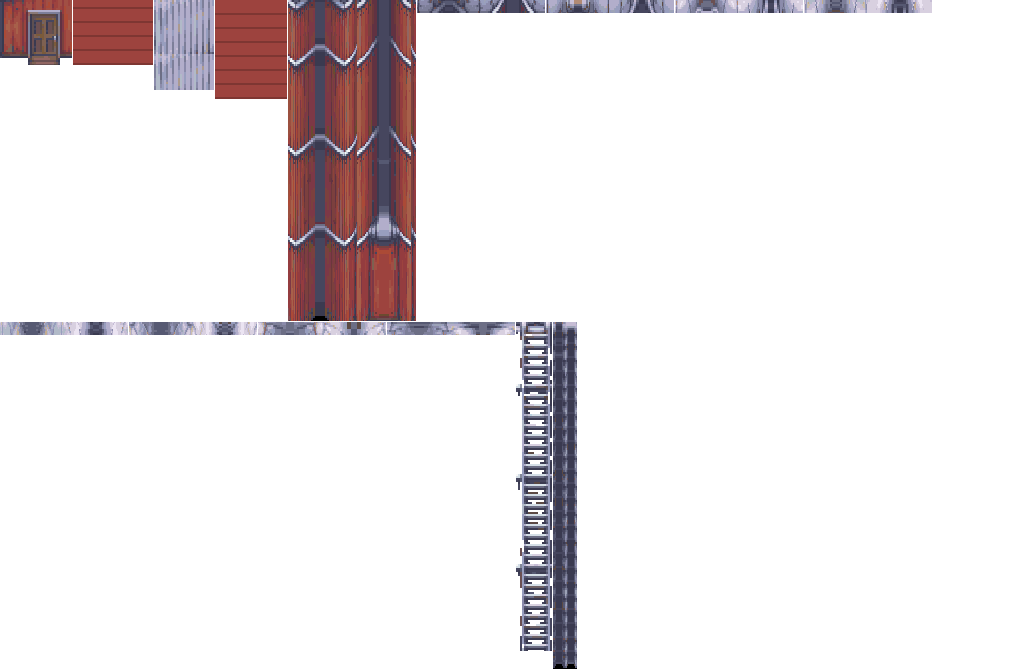
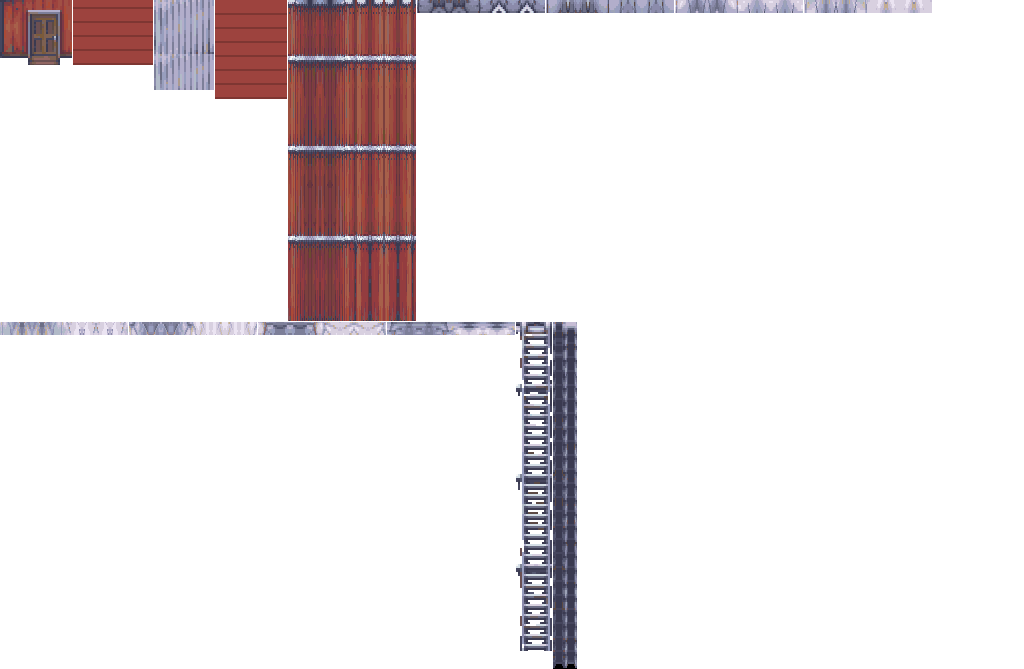
Farm silos: level hoops and no dark stripe up each side (0.1.909, 021725)
"Silos don't look right from the side": their strips were unrolled from the pack's front
view by sin(angle) (tools/buildings_farm.py, unroll), so round each side (90 and 270
degrees) they read the sprite's own edge, its dark outline and side shading (a dark
stripe up the body and dome), and the steel hoops kept the front view's perspective curve
(bands rising and dipping into V shapes once wrapped round).

tools/mend_silo_strips.py mends both atlases in place (the pack's art is not in the repo):
each body column is shifted so its hoops run level, and the edge bands' columns are
mirrored in from beside them (body and the dome's eight rings). Renders from the left and
right: the stripes are gone, the hoops level. Rerun it after rebuilding the farm models
from the pack.

Claude-Session: https://claude.ai/code/session_013NozTEqze7jz3LdAKrPRz7

Changed region(s): [[0.2812, 0.0, 0.9062, 0.5082], [0.0, 0.4783, 0.25, 0.5082], [0.4062, 0.4783, 0.5, 0.5082]]

diff --git a/kotlin-street/tools/mend_silo_strips.py b/kotlin-street/tools/mend_silo_strips.py
@@ -1,0 +1,79 @@
+"""Mends the silos' wrapped strips (fm_silo1/2: the body and the dome's rings) in their atlases.
+
+The strips were unrolled from the pack's front view by sin(angle) (tools/buildings_farm.py, unroll): round each side
+(angle near 90 and 270 degrees) they read the sprite's own edge, its dark outline and side shading, so a dark stripe ran
+up each side of the silo, body and dome; and the body's steel hoops kept the front view's perspective curve, bands that
+rise and dip into V shapes once wrapped round. Here: the body's columns are shifted up or down so each hoop runs level
+(its first hoop's middle found in each column), and the columns of the two edge bands are mirrored in from beside them.
+"""
+import json, sys
+import numpy as np
+from PIL import Image
+
+BANDS = ((62.0, 118.0), (230.0, 310.0))      # the edge bands about 90 and 270 degrees (the left side's shading is wider)
+
+
+def ang(j, n): return (j + .5) * 360.0 / n
+
+
+def col_of(theta, n): return int(theta % 360.0 / 360.0 * n) % n
+
+
+def mirror_edges(s):
+    n = s.shape[1]
+    out = s.copy()
+    for j in range(n):
+        th = ang(j, n)
+        for a0, a1 in BANDS:
+            if a0 <= th < a1:
+                mid = (a0 + a1) / 2
+                src = a0 - (th - a0) if th < mid else a1 + (a1 - th)
+                out[:, j] = s[:, col_of(src, n)]
+    return out
+
+
+def level_hoops(s, target=None):
+    rgb = s[..., :3].astype(int)
+    hoop = (rgb.sum(2) > 420) & (rgb[..., 2] >= rgb[..., 0] - 10)
+    n = s.shape[1]
+    centre = np.full(n, np.nan)
+    for j in range(n):
+        th = ang(j, n)
+        if any(a0 <= th < a1 for a0, a1 in BANDS): continue
+        rows = np.nonzero(hoop[38:74, j])[0]
+        if len(rows): centre[j] = 38 + (rows.min() + rows.max()) / 2.0
+    good = ~np.isnan(centre)
+    if good.sum() < n // 4: return s, None
+    if target is None: target = float(np.median(centre[good]))
+    idx = np.arange(n)
+    # (columns without a hoop found: the nearest found column's shift)
+    filled = np.interp(idx, idx[good], centre[good], period=n)
+    out = s.copy()
+    h = s.shape[0]
+    for j in range(n):
+        d = int(round(target - filled[j]))
+        src = np.clip(np.arange(h) - d, 0, h - 1)
+        out[:, j] = s[src, j]
+    return out, target
+
+
+root = sys.argv[1]
+models = json.load(open(root + '/models.json'))
+for key in ('fm_silo1', 'fm_silo2'):
+    path = f'{root}/{key}_atlas.png'
+    im = np.array(Image.open(path).convert('RGBA'))
+    done = []
+    for p in models[key]['parts']:
+        if p.get('t') != 'cyl' or 'ft' not in p or p.get('axis') == 'x': continue
+        x, y, w, h = p['ft']
+        if w != 128: continue          # (the pipe, 24 round: left as it is)
+        strip = im[y:y + h, x:x + w].copy()
+        body = h > 100
+        if body:
+            strip, t = level_hoops(strip)
+            done.append(f'body {w}x{h} hoops levelled at row {t}')
+        strip = mirror_edges(strip)
+        if not body: done.append(f'ring {w}x{h}')
+        im[y:y + h, x:x + w] = strip
+    Image.fromarray(im).save(path, optimize=True)
+    print(key, '; '.join(done))
